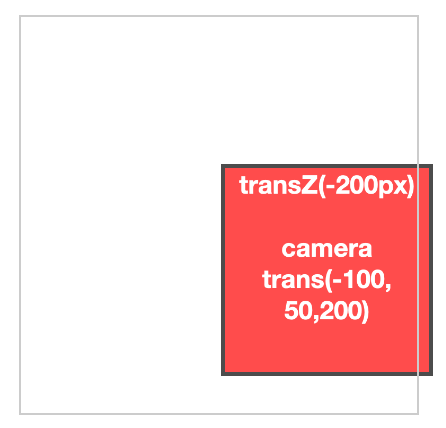
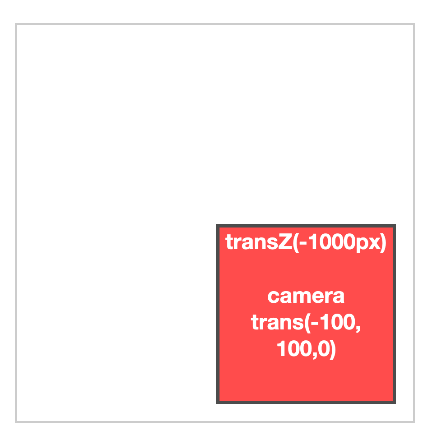
fix

Changed region(s): [[0.0301, 0.0304, 0.9931, 0.972]]

diff --git a/ex2.html b/ex2.html
@@ -1,0 +1,125 @@
+<!doctype html>
+<html lang="en">
+<head>
+  <meta charset="utf-8" />
+  
+  <!-- disable zooming -->
+  <meta name="viewport" content="initial-scale=1.0, user-scalable=0" />
+  
+  <title>Examples of Transforms</title>
+
+  <link rel="stylesheet" href="includes/style.css" media="screen" />
+    
+  <style media="screen">
+    .container {
+      width: 198px;
+      height: 198px;
+      border: 1px solid #CCC;
+      margin: 0 auto 60px;
+      position: relative;
+      overflow: visible;
+      transform-style: preserve-3d;
+    }
+
+    .panel {
+      width: 192px;
+      height: 192px;
+      position: absolute;
+      opacity: 0.7;
+      border: 4px solid black;
+      font-size: 24px;
+      font-weight: bold;
+      color: white;
+      text-align: center;
+      background: red;      
+      transform-style: preserve-3d;      
+    }
+
+    .image {
+      background-color: transparent;
+      background-size: cover;
+      opacity: 1.0;
+    }
+  </style>
+
+</head>
+<body>
+
+  <h1>Examples of Transforms</h1>
+  <div id="translate-z-negative" class="container">
+  </div>
+
+  <div id="result1">....</div>  
+  <div><br>Should be:<br>n1 position = [100, -100, -1000]</div>
+  <div id="translate-z-positive" class="container">
+  </div>
+
+<div id="result2">....</div>
+  <div><br>Should be:<br>n2 position = [0, 0, -451]</div>
+  <div id="rotate-x" class="container">
+  </div>
+
+  <div id="result3">....</div>
+  <div><br>Should be:<br>n3 matrix = [1, 0, 0, 0,<br>
+    0, 0.8191520442889918, -0.573576436351046, 0,<br>
+    0, 0.573576436351046, 0.8191520442889918, 0,<br>
+    0, 0, 0, 1]<br>
+    n3 worldMatrix = [1, 0, 0, 0,<br>
+    0, 0.8191520442889918, -0.573576436351046, 0,<br>
+    0, 0.573576436351046, 0.8191520442889918, -750,<br>
+    0, 0, 0, 1]</div>
+  <div id="rotate-y" class="container">
+  </div>
+
+  <div id="result4">....</div>
+  <div><br>Should be:<br>n4 matrix = [0.7071067811865476, 0, 0.7071067811865475, -70.7,<br>
+0, 1, 0, 0,<br>
+-0.7071067811865475, 0, 0.7071067811865476, 0,<br>
+0, 0, 0, 1]<br>
+n41 matrix = [0.7071067811865475, 0, -0.7071067811865476, 70.72135623730951,<br>
+0, 1, 0, 0,<br>
+0.7071067811865476, 0, 0.7071067811865475, 1.4210854715202004e-14,<br>
+0, 0, 0, 1]<br>
+n41 worldMatrix = [0.5754418589960313, -0.030153689607045803, -0.8172866216440066, 110.98959091579192,<br>
+-0.12278780396897285, 0.984807753012208, -0.12278780396897282, 40.43776683232346,<br>
+0.8085727067565839, 0.17101007166283433, 0.5629970988186381, -798.0622386145972,<br>
+0, 0, 0, 1]
+</div>
+  <div id="rotate-z" class="container">
+  </div>
+
+  <div id="result5">....</div>
+  <div><br>Should be:<br>LEFT:<br>
+    n5 matrix = [0.8180294248815739, -0.5727903697794315, 0.052335956242943835, 0,<br>
+    0.573576436351046, 0.8191520442889918, 0, 0,<br>
+    -0.04287110554622667, 0.030018671274852006, 0.9986295347545738, -1000,<br>
+    0, 0, 0, 1]<br>
+    n5 worldMatrix = [0.8090669233189091, -0.5665147586240373, -0.15643446504023087, 207.91169081775934,<br>
+    0.573576436351046, 0.8191520442889918, 0, 0,<br>
+    0.12814361183495993, -0.08972712298025791, 0.9876883405951377, -978.1476007338057,<br>
+    0, 0, 0, 1]<br>
+    MIDDLE:<br>
+    n5 matrix = [-0.8180294248815739, 0.5727903697794315, -0.05233595624294356, 0,<br>
+    0.573576436351046, 0.8191520442889918, 0, 0,<br>
+    0.04287110554622644, -0.030018671274851846, -0.9986295347545738, -1000,<br>
+    0, 0, 0, 1]<br>
+    n5 worldMatrix = [-0.8180294248815739, 0.5727903697794315, -0.0523359562429434, 1.5986063949206228e-13,<br>
+    0.573576436351046, 0.8191520442889918, 0, 0,<br>
+    0.04287110554622631, -0.030018671274851756, -0.9986295347545738, -1000,<br>
+    0, 0, 0, 1]<br>
+    RIGHT:<br>
+    n5 matrix = [0.8090669233189091, -0.5665147586240372, -0.15643446504023112, 0,<br>
+    0.573576436351046, 0.8191520442889918, 0, 0,<br>
+    0.12814361183496015, -0.08972712298025806, 0.9876883405951377, -1000,<br>
+    0, 0, 0, 1]<br>
+    n5 worldMatrix = [0.8185482607599402, -0.5731536625725573, 0.03838780908751943, -194.23435121997173,<br>
+    0.573576436351046, 0.8191520442889918, 0, 0,<br>
+    -0.0314454522898171, 0.022018342735743685, 0.9992629164106211, -980.9551553491916,<br>
+    0, 0, 0, 1]</div>
+    
+  <script type="module" src="js/ex2.js"></script>
+  
+  <p class="footer">Ideas for examples taken from tutorial code at the <a href="https://github.com/desandro/3dtransforms">3DTransforms</a> project on github.</p>
+
+</body>
+</html>

diff --git a/src/ex2.ts b/src/ex2.ts
@@ -8,11 +8,12 @@ var s3 = new sg.Scene(<HTMLDivElement>document.getElementById("rotate-x"));
 var s4 = new sg.Scene(<HTMLDivElement>document.getElementById("rotate-y"));
 var s5 = new sg.Scene(<HTMLDivElement>document.getElementById("rotate-z"));
 
-var mt = sg.Matrix.makeTranslation(new sg.Vector(2,3,4));
-var mr = sg.Matrix.makeRotationFromEuler(new sg.Vector(90,0,0));
-var mm = mr.multiply(mt);
-console.log(mm.toString());
-
+var res1 = <HTMLDivElement>document.getElementById("result1");
+var res2 = <HTMLDivElement>document.getElementById("result2");
+var res3 = <HTMLDivElement>document.getElementById("result3");
+var res4 = <HTMLDivElement>document.getElementById("result4");
+var res5 = <HTMLDivElement>document.getElementById("result5");
+var res6 = <HTMLDivElement>document.getElementById("result6");
 
 ///////////////////////////////////
 // Scene 1.
@@ -36,6 +37,11 @@ s1.world.add(n1);
 // render this graph into the div container.
 s1.render()
 
+if (s1.camera) {
+	var m = s1.camera.worldInverseTransform.multiply(n1.worldTransform);              
+	res1.innerText = "n1 position = " + m.getPosition().toString();
+}
+
 ///////////////////////////////////
 // Scene 2
 //
@@ -54,6 +60,11 @@ s2.world.add(n2);
 
 s2.render();
 
+if (s2.camera) {
+	var m = s2.camera.worldInverseTransform.multiply(n2.worldTransform);              
+	res2.innerText = "n2 position = " + m.getPosition().toString();
+}
+
 ///////////////////////////////////
 // Scene 3
 //
@@ -71,6 +82,12 @@ n3.rotation = sg.Matrix.makeRotationFromEuler(new sg.Vector(35,0,0));
 s3.world.add(n3);
 
 s3.render();
+
+if (s3.camera) {
+	var m = s3.camera.worldInverseTransform.multiply(n3.worldTransform);
+	res3.innerText = "n3 matrix = " + n3.worldTransform.toString() + "\n" + 
+		"n3 worldMatrix = " + m.toString();
+}
 
 ///////////////////////////////////
 // Scene 4.  
@@ -114,6 +131,13 @@ n4.add(n4g);
 
 s4.render();
 
+if (s4.camera) {
+	var m = s4.camera.worldInverseTransform.multiply(n41.worldTransform);              
+	res4.innerText = "n4 matrix = " + n4.worldTransform.toString() + "\n" + 
+		"n41 matrix = " + n41.worldTransform.toString() + "\n" + 
+		"n41 worldMatrix = " + m.toString()
+}
+
 ///////////////////////////////////
 // Scene 5.  Till in Z, spin in X, and rotate the camera back and forth
 var cam5 = new sg.Camera(25);
@@ -131,6 +155,11 @@ s5.world.add(n5);
 var yRotation = 0;
 var camYRotation =12;
 var camYInc = 0.2;
+
+var str1 = "LEFT:\n\n";
+var str2 = "MIDDLE:\n\n";
+var str3 = "RIGHT:\n\n";
+
 var s5renderFunc = function() {
 	yRotation += 3;
 	if (yRotation > 360) {
@@ -146,6 +175,23 @@ var s5renderFunc = function() {
 	cam5.rotation = sg.Matrix.makeRotationFromEuler(new sg.Vector(0,camYRotation,0));
 	
 	s5.render();
+	
+	if (s5.camera) {
+		var m = s5.camera.worldInverseTransform.multiply(n5.worldTransform);              
+		if (camYRotation > 11 && str1.length < 20) {
+			str1 = "LEFT:\n n5 matrix = " + n5.worldTransform.toString() + "\n" + 
+				"n5 worldMatrix = " + m.toString() + "\n";
+			res5.innerText = str1 + str2 + str3;
+		} else if (camYRotation < -11 && str3.length < 20) {
+			str3 = "RIGHT:\n n5 matrix = " + n5.worldTransform.toString() + "\n" + 
+				"n5 worldMatrix = " + m.toString() + "\n" ;
+			res5.innerText = str1 + str2 + str3;
+		} else if (camYRotation > -0.1 && camYRotation < 0.1  && str2.length < 20) {
+			str2 = "MIDDLE:\n n5 matrix = " + n5.worldTransform.toString() + "\n" + 
+				"n5 worldMatrix = " + m.toString() + "\n";
+			res5.innerText = str1 + str2 + str3;
+		}
+	}
 	requestAnimationFrame(s5renderFunc);
 };
 s5renderFunc();

diff --git a/src/SG.ts b/src/SG.ts
@@ -88,11 +88,6 @@ export class Matrix {
     static makeRotationFromEuler (eu: Vector): Matrix {        
 	}
 
-    // not used in the example, but you might find it useful to implement this
-    // to make camera motion easier to control
-    static lookAt(eye: Vector, target: Vector, up: Vector): Matrix {
-    }
-    
     // create a new translation matrix from the input vector
     // t.x, t.y, t.z contain the translation values in each direction
     static makeTranslation(t: Vector): Matrix {
@@ -232,7 +227,8 @@ export class Scene {
     private domElement: HTMLDivElement;
     private width: number;
     private height: number;
-                
+    private windowTransform: string;
+
     constructor(public container: HTMLDivElement) {
         this.world = new Thing();
         this.camera = null;
@@ -261,16 +257,20 @@ export class Scene {
         // CSS uses a weird +y is DOWN coordinate frame, so we're going to
         // scale by -1 in Y in each of the elements, and then undo that scale here.
         // By doing this, all of our transformations can by in the more common
-        // +1 is UP coordinate frame 
-        this.domElement.style.transform = "matrix3d(1,0,0,0, 0,-1,0,0, 0,0,1,0, 0,0,0,1)"; 
+        // +1 is UP coordinate frame.
+        // We'll also translate to the center of the viewport (CSS coords are now in the
+        // lower left)
+        this.windowTransform = "matrix3d(1,0,0,0, 0,-1,0,0, 0,0,1,0, 0,0,0,1)" +
+            " translate3d(" + this.width/2 + 'px, ' + this.height/2 + 'px, 0px)'; 
     }
     
     // convenience function provided so you don't have to fight with this peculiarity of CSS.  
-    // we invert Y here, as described above
+    // we invert Y here, as described above.  We also translate the DIV so it's center is
+    // at the origin instead of it's lower left corner.
     getObjectCSSMatrix( m: Matrix ): string {
 		var elements = m.elements;
 
-		return 'matrix3d(' +
+		return 'translate3d(-50%, -50%, 0) matrix3d(' +
 			epsilon( elements[ 0 ]  ) + ',' +
 			epsilon( elements[ 1 ]  ) + ',' +
 			epsilon( elements[ 2 ]  ) + ',' +
@@ -296,10 +296,11 @@ export class Scene {
     // - update all the Things' internal matrices
     // - update all the Things' worldTransforms
     // - find the Camera and save it, and figure out it's inverse transformation to the root
-    // - set the perspective on this.domElement from the focalLength, as follows (assuming
-    //   focallength is a number):
-    //         this.domElement.style.perspective 
-    //                = focalLength.toString() + "px";
+    // - set the perspective on this.container and add a translation to move the camera to it's origin, 
+    //   both based on the focalLength, as follows:
+    //      var focalLength = this.camera.getFocalLength(this.height).toString();
+    //      this.container.style.perspective = focalLength + "px";
+    //      this.domElement.style.transform = "translate3d(0px,0px," + focalLength + "px)" + this.windowTransform;
     // - for each object, figure out the entire transformation to that object
     //   (including the inverse camera transformation). 
     // - add the DIV's in the HTMLDivThings directly to this.domElement (do not use a
